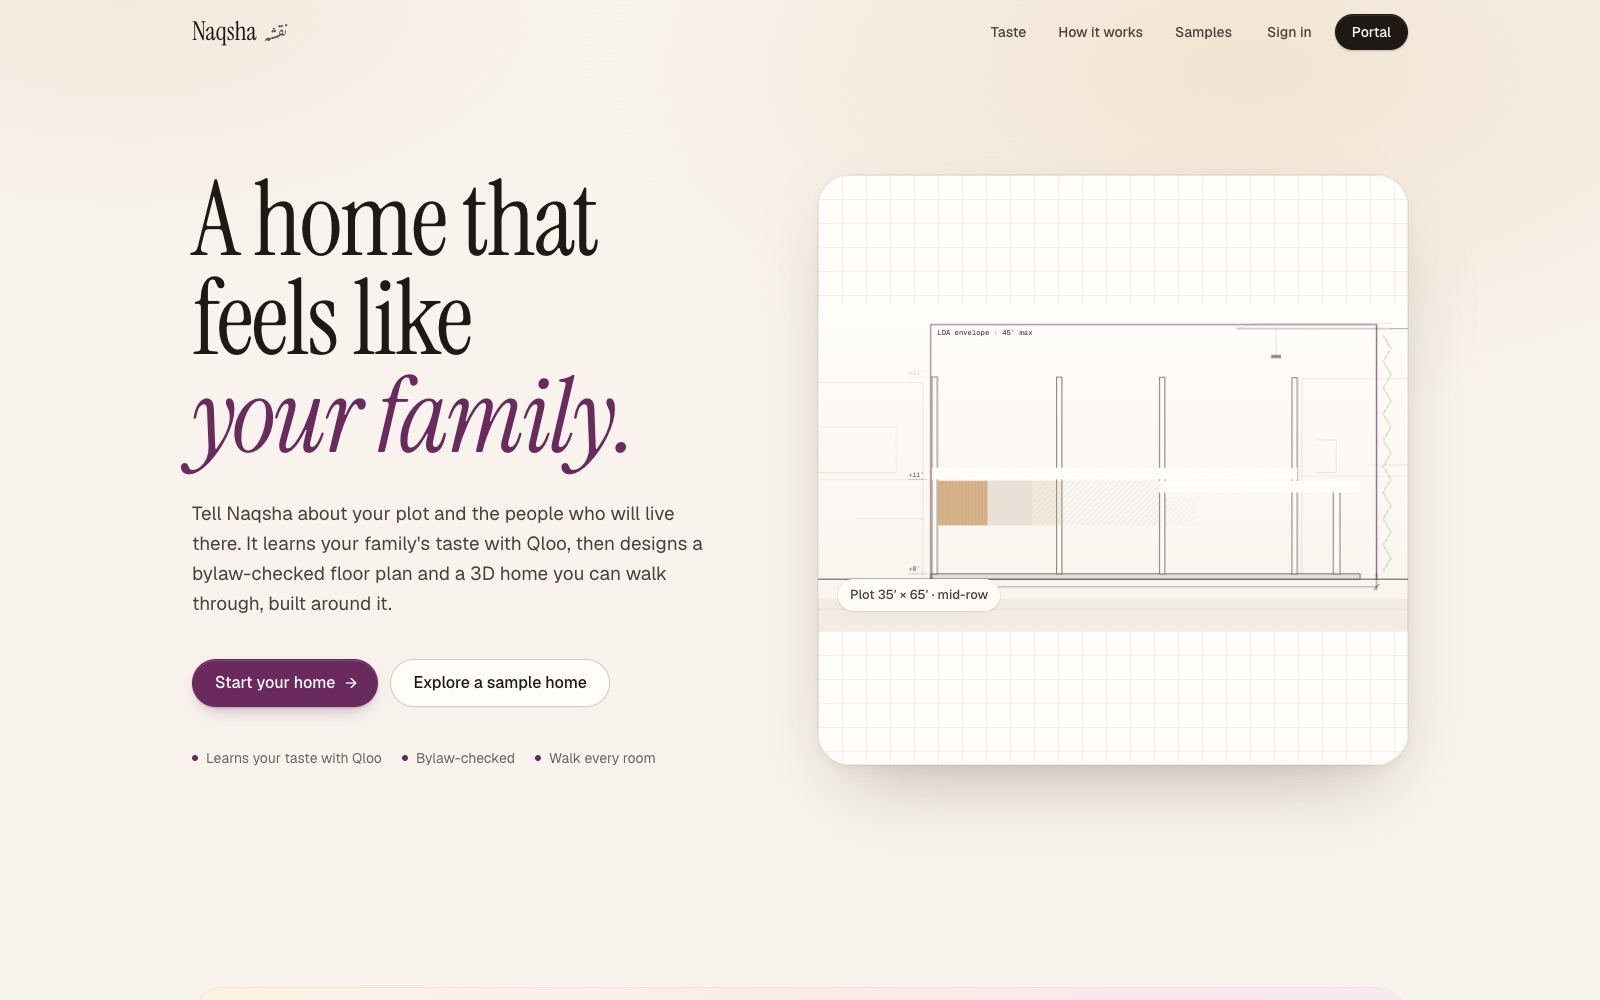
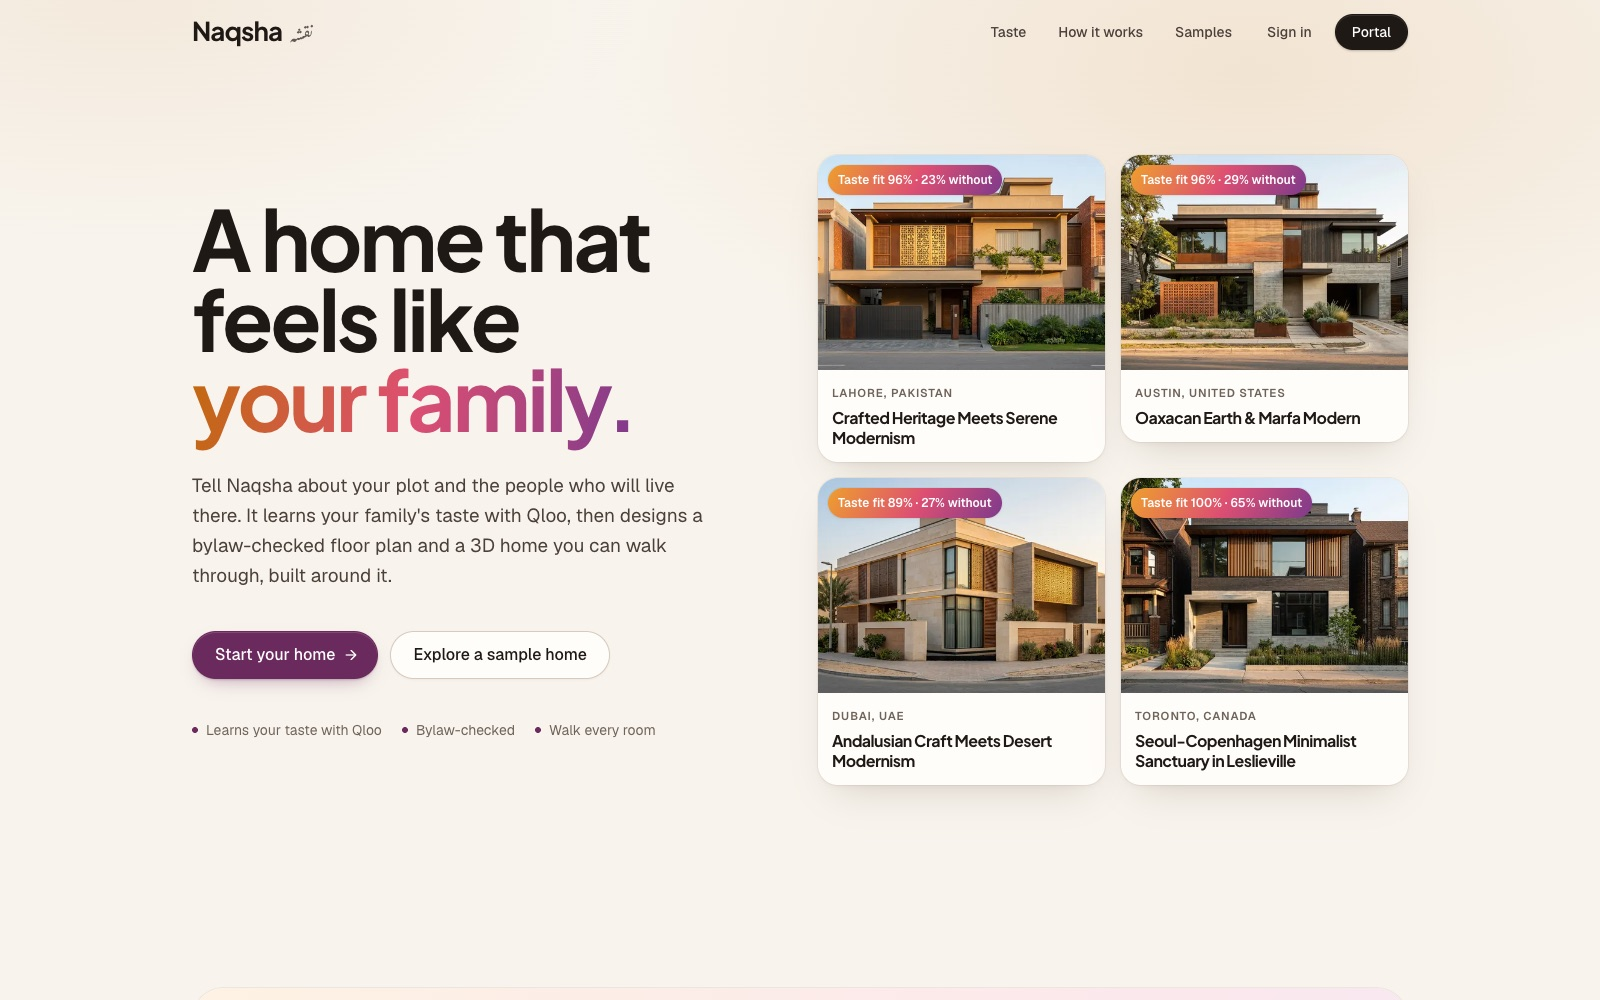
Screens: four families from the live app

Changed region(s): [[0.5, 0.155, 0.9062, 0.806], [0.0938, 0.186, 0.4375, 0.775], [0.125, 0.0, 0.1875, 0.062]]

diff --git a/README.md b/README.md
@@ -65,16 +65,22 @@ Captured from the live app with Playwright.
 
 | | |
 |---|---|
-| ![Each person's favourites](docs/screens/11-composer.jpg) | ![The family's taste, read with Qloo](docs/screens/02-taste-hero.jpg) |
-| **Taste.** Each person adds a few favourites as chips. | **Their style.** Qloo's reading of the family, and the favourites behind it. |
-| ![Measured impact](docs/screens/03-impact.jpg) | ![Decisions with their Qloo evidence](docs/screens/05-decisions.jpg) |
-| **What Qloo changed.** The same brief without their taste scores 23%; theirs, 96%. | **Decisions.** Every choice cites the Qloo signals behind it. |
-| ![A room for each person](docs/screens/06-rooms.jpg) | ![Concepts with their taste fit](docs/screens/07-concepts.jpg) |
-| **Rooms.** Each follows one person's taste; switch it and picture it. | **Concepts.** One per taste direction, each with its measured fit. |
-| ![The plan](docs/screens/08-plan.jpg) | ![The house in 3D](docs/screens/09-house.jpg) |
-| **Plan.** Every bylaw check passes. | **House.** Built in 3D from the concept and the family's palettes. |
-| ![Photos from four angles](docs/screens/10-photos.jpg) | ![Landing](docs/screens/01-landing.jpg) |
-| **Photos.** Made from the 3D model, from four angles. | **Start.** Open the sample home, or start your own. |
+| ![Landing: four families](docs/screens/01-landing.jpg) | ![What each family shares, what Qloo finds, how the house changes](docs/screens/02-four-families.jpg) |
+| **Start.** Four real families, each house drawn from their taste. | **Four countries.** What they share, what Qloo finds, how the house changes. |
+| ![The Malik family's taste](docs/screens/03-lahore-1-taste.jpg) | ![Measured impact](docs/screens/04-lahore-2-impact.jpg) |
+| **Lahore.** The family's taste, read with Qloo, and the favourites behind it. | **What Qloo changed.** The same brief without their taste: 23%. Theirs: 96%. |
+| ![Interiors, a room for each person](docs/screens/05-lahore-4-rooms.jpg) | ![Decisions with their Qloo evidence](docs/screens/06-lahore-3-decisions.jpg) |
+| **Inside.** Each room follows one person's taste, grounded in the house and the places they love. | **Decisions.** Every choice cites the Qloo signals behind it. |
+| ![The Garcia family's taste](docs/screens/07-austin-1-taste.jpg) | ![Austin interiors](docs/screens/08-austin-4-rooms.jpg) |
+| **Austin.** Oaxacan Earth & Marfa Modern. | **Inside, Austin.** |
+| ![Austin photos](docs/screens/09-austin-8-photos.jpg) | ![The Al Mansouri family's taste](docs/screens/10-dubai-1-taste.jpg) |
+| **Photos.** Four angles of one house, with an Austin street around it. | **Dubai.** Andalusian Craft Meets Desert Modernism. |
+| ![Dubai interiors](docs/screens/11-dubai-4-rooms.jpg) | ![The Park family's taste](docs/screens/12-toronto-1-taste.jpg) |
+| **Inside, Dubai.** A majlis, a family lounge, a closed kitchen. | **Toronto.** Seoul-Copenhagen Minimalist Sanctuary. |
+| ![Toronto interiors](docs/screens/13-toronto-4-rooms.jpg) | ![Toronto photos](docs/screens/14-toronto-8-photos.jpg) |
+| **Inside, Toronto.** | **Photos, Toronto.** |
+| ![Concepts with taste fit](docs/screens/15-lahore-5-concepts.jpg) | ![The plan](docs/screens/16-lahore-6-plan.jpg) |
+| **Concepts.** One per taste direction, each with its measured fit. | **Plan.** Every bylaw check passes. |
 
 ## Models
 
